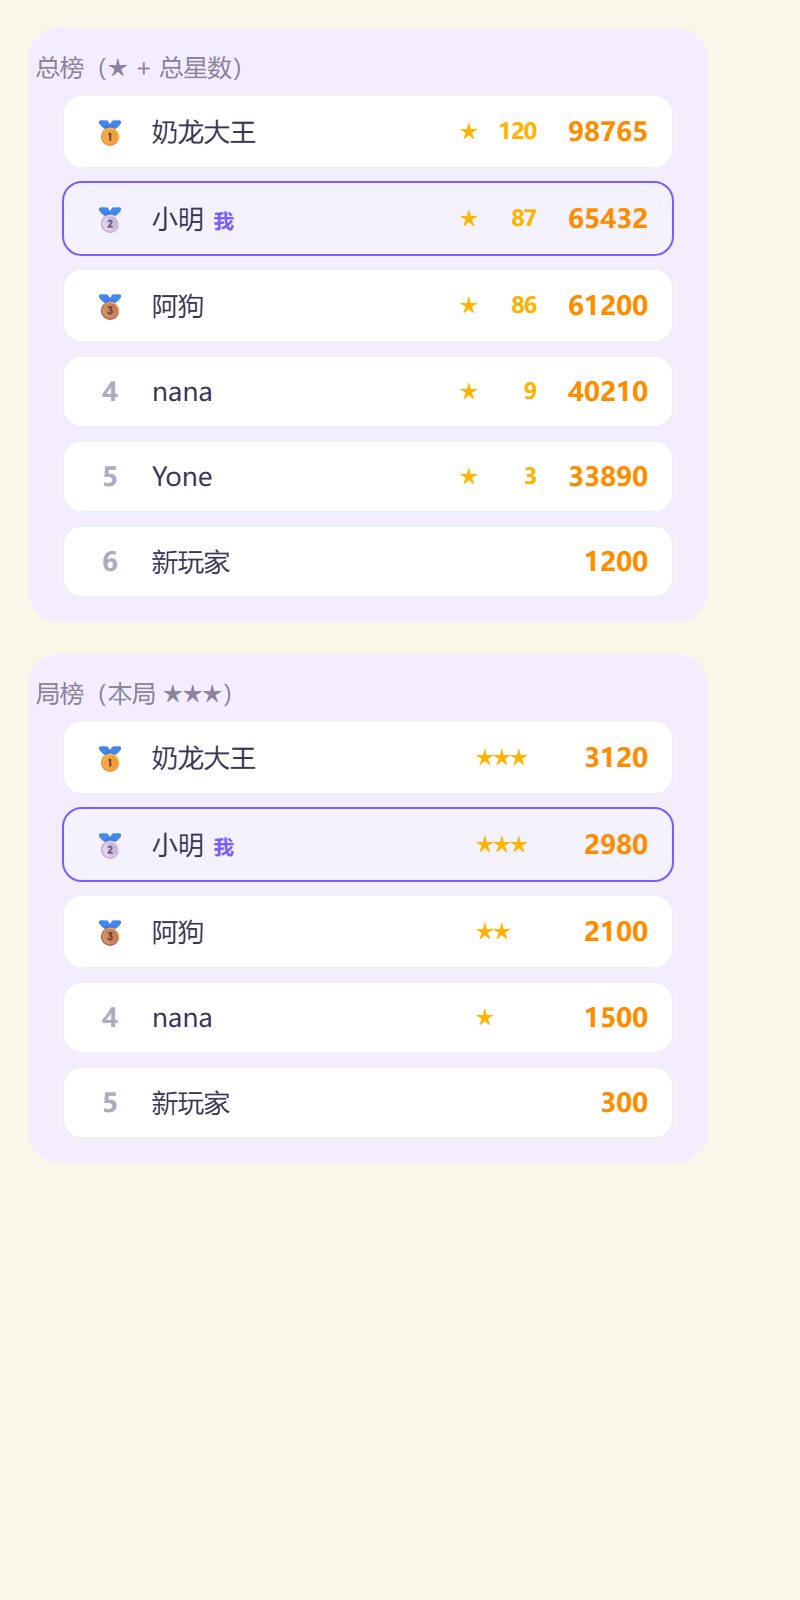
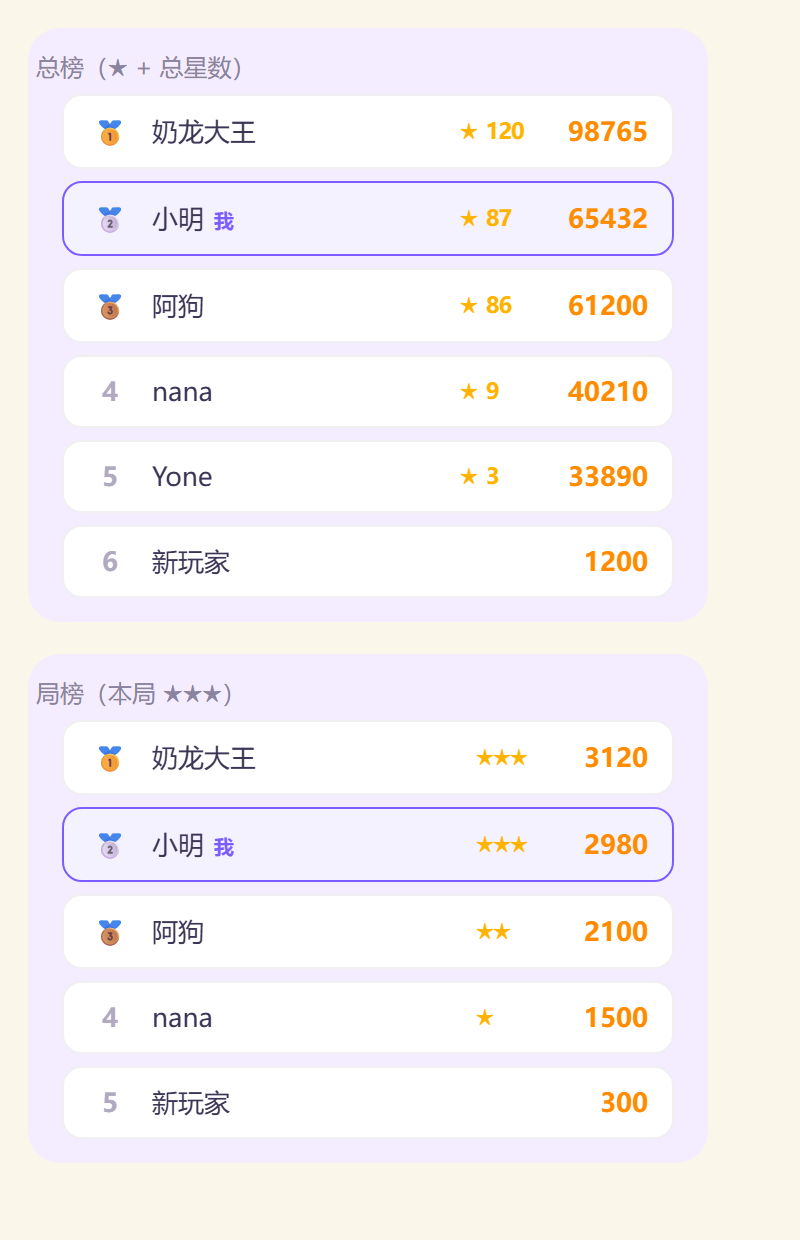
Update files

diff --git a/test-smoke.js b/test-smoke.js
@@ -1889,11 +1889,16 @@ function check(name, ok) {
     /case 'ice': \{/.test(audioSrc) && /_noiseNow\(/.test(audioSrc) &&
     /_noiseBuffer\(\)/.test(audioSrc) && /opts\.final/.test(audioSrc) &&
     /AudioManager\.playSFX\('ice', \{ final:/.test(jsSrc));
-  // 41f-2b. 炸弹音效：礼炮「砰」+ 彩带，必须是亮的（不再是一记闷低音）
-  check('炸弹音效改成明亮的礼炮声（高频噪声 + 上扬音头）',
-    /case 'bomb': \{[\s\S]*?highpass[\s\S]*?彩带/.test(audioSrc) &&
-    /case 'bomb': \{[\s\S]{0,300}_tone\(520/.test(audioSrc) &&
-    !/case 'bomb':[\s\S]{0,120}_tone\(60, 'sine'/.test(audioSrc));
+  // 41f-2b. 炸弹音效：必须是「轰」的低频下坠，不能像碎冰那样高频「咔」
+  check('炸弹音效是低频「轰」（滑音下坠 + 低频尾噪，不含高频碎粒）', (() => {
+    const m = /case 'bomb': \{[\s\S]*?break;\s*\}/.exec(audioSrc);
+    if (!m) return false;
+    const blk = m[0];
+    return /_tone\(150, 'sine', 0\.55, 0\.45, 0, 42\)/.test(blk) &&
+      /exponentialRampToValueAtTime/.test(audioSrc) &&
+      /'lowpass'/.test(blk) && !/'highpass'/.test(blk) &&
+      !/_noise\(0\.03 \+ Math\.random/.test(blk);
+  })());
   // 41f-2c. 炸弹爆炸喷彩带（纸带翻转飘落）
   check('炸弹爆炸喷彩带（纸带翻转飘落）',
     /confetti\(x, y, 26\)/.test(fxSrc) && /kind === 'confetti'/.test(fxSrc) &&
@@ -1924,11 +1929,14 @@ function check(name, ok) {
     htmlSrc0.includes('<h2 class="title small">📖 说明</h2>') &&
     htmlSrc0.includes('🎮 玩法说明') && !htmlSrc0.includes('🎮 玩法规则') &&
     htmlSrc0.includes('说明字号'));
-  // 41f-8. 榜上星星占固定一格：★ 一列对齐、数字右对齐
-  check('榜上星星占固定一格（★ 对齐、数字右对齐）',
-    /\.lb-stars\s*\{[\s\S]*?min-width:\s*42px/.test(cssSrc) &&
-    /\.lb-stars b\s*\{[\s\S]*?text-align:\s*right/.test(cssSrc) &&
-    /lb-star-ico/.test(jsSrc));
+  // 41f-8. 榜上星星占固定一格：★ 一列对齐，数字紧跟 ★（不右推、不留大空档）
+  check('榜上星星占固定一格（★ 一列对齐，数字紧跟 ★）', (() => {
+    const host = /\.lb-stars\s*\{[^}]*\}/.exec(cssSrc);
+    const num = /\.lb-stars b\s*\{[^}]*\}/.exec(cssSrc);
+    return !!host && /min-width:\s*42px/.test(host[0]) &&
+      !!num && /text-align:\s*left/.test(num[0]) && !/min-width/.test(num[0]) &&
+      /lb-star-ico/.test(jsSrc) && cssSrc.includes('lb-star-ico');
+  })());
   // 41g. 剧情过场去掉「跳过剧情」
   check('剧情过场只有「继续前进」，没有「跳过剧情」',
     htmlSrc0.includes('id="btn-story-go"') && !htmlSrc0.includes('btn-story-skip') &&
@@ -1963,6 +1971,28 @@ function check(name, ok) {
     /fill\('evenodd'\)/.test(jsSrc) &&
     !/g\.strokeText\(t, 0, 1\)/.test(jsSrc) &&
     !/const t = isN \? '奶龙' : '🔑'/.test(jsSrc));
+
+  // 41k. 章节奖励：打通一整章 → 邮箱收到「恭喜通过第X章」+200 金币，只发一次
+  check('通过一整章发「恭喜通过第X章」邮件（200 金币，只发一次）', (() => {
+    // 先把第 1 章清空，再一关一关补上，确认「没打通不发、打通才发、不重复发」
+    for (let lv = 1; lv <= 10; lv++) sandbox.Store.recordLevel(lv, 0, 0);
+    sandbox.__nl_test.refreshMenu();
+    const none = sandbox.Mail.list().filter((m) => m.id === 'chapter-clear-1').length;
+    for (let lv = 1; lv <= 9; lv++) sandbox.Store.recordLevel(lv, 1000, 1);
+    sandbox.__nl_test.refreshMenu();
+    const partial = sandbox.Mail.list().filter((m) => m.id === 'chapter-clear-1').length;
+    sandbox.Store.recordLevel(10, 1000, 1);
+    sandbox.__nl_test.refreshMenu();
+    sandbox.__nl_test.refreshMenu();
+    const list = sandbox.Mail.list().filter((m) => m.id === 'chapter-clear-1');
+    const m = list[0] || {};
+    return none === 0 && partial === 0 && list.length === 1 &&
+      m.title === '恭喜通过第1章' && m.coins === 200 && m.hasGift === true &&
+      sandbox.Mail.claim('chapter-clear-1').coins === 200;
+  })());
+  check('章节奖励发到邮箱、由玩家自己领（不会直接塞进钱包）',
+    /chapter-clear-' \+ ch\.id/.test(jsSrc) && /Mail\.sendMail\(\{/.test(jsSrc) &&
+    /coins: CHAPTER_COIN/.test(jsSrc) && /grantChapterMails\(\)/.test(jsSrc));
 
   console.log(failed ? ('\n' + failed + ' 项失败') : '\n全部通过');
   process.exit(failed ? 1 : 0);

diff --git a/js/audio.js b/js/audio.js
@@ -256,19 +256,19 @@
     // 等 resume 成功再补播，避免「刚进来没声音」。
     _pendingTones: [],
     _pendingNoise: [],
-    _tone(freq, type, dur, vol, delay) {
+    _tone(freq, type, dur, vol, delay, to) {
       this.ensureCtx();
       if (!this.ctx) return;
       if (this.ctx.state !== 'running') {
         const now = Date.now();
-        this._pendingTones.push({ args: [freq, type, dur, vol, delay], at: now });
+        this._pendingTones.push({ args: [freq, type, dur, vol, delay, to], at: now });
         if (this._pendingTones.length > 8) this._pendingTones.shift();
         if (this._flushTimer) clearTimeout(this._flushTimer);
         this._flushTimer = setTimeout(() => this._flushTones(), 140);
         this.resumeCtx();
         return;
       }
-      this._toneNow(freq, type, dur, vol, delay);
+      this._toneNow(freq, type, dur, vol, delay, to);
     },
 
     _flushTones() {
@@ -287,7 +287,7 @@
       });
     },
 
-    _toneNow(freq, type, dur, vol, delay) {
+    _toneNow(freq, type, dur, vol, delay, to) {
       if (!this.ctx || this.ctx.state !== 'running') return;
       delay = delay || 0;
       try {
@@ -296,6 +296,10 @@
         const g = this.ctx.createGain();
         osc.type = type;
         osc.frequency.setValueAtTime(freq, t0);
+        // 带滑音：炸弹的「轰」要从高处一路坠下去，纯固定频率只能弹出「嘟」
+        if (to && to > 0 && to !== freq) {
+          osc.frequency.exponentialRampToValueAtTime(to, t0 + dur * 0.85);
+        }
         // 统一响度：所有音效与音乐在同一条响度线上（原来 ×2 偏响）
         const peak = Math.max(0.0001, vol * this.sfxVol * this.SFX_PEAK_SCALE);
         g.gain.setValueAtTime(0, t0);
@@ -400,22 +404,14 @@
           break;
         }
         case 'bomb': {
-          // 炸弹 = 礼花筒「砰」+ 彩带飘出来：要亮、要脆，不能闷成一记低音鼓
-          // ① 爆口：极短的高频噪声（纸炮「啪」），两层叠出厚度
-          this._noise(0.07, 0.30, 2400, 0.6, 0, 'highpass');
-          this._noise(0.04, 0.22, 4200, 0.6, 0.012, 'highpass');
-          // ② 音头上扬的「砰」：几个高音快速叠上去，把整体亮度提起来
-          this._tone(520, 'triangle', 0.10, 0.20);
-          this._tone(780, 'triangle', 0.09, 0.14, 0.03);
-          this._tone(1060, 'sine', 0.09, 0.10, 0.06);
-          // ③ 彩带散开：随机高频颗粒，像纸带擦过空气的沙沙声
-          for (let i = 0; i < 8; i++) {
-            this._noise(0.03 + Math.random() * 0.04, 0.07 + Math.random() * 0.06,
-              1600 + Math.random() * 4200, 0.6, 0.05 + Math.random() * 0.22, 'highpass');
-          }
-          // ④ 只留一丝低频当「体积」，多了就闷
-          this._tone(160, 'sine', 0.09, 0.06);
-          this.vibrate([20, 30, 15]);
+          // 炸弹 = 「轰！」：低频下坠的闷响 + 一记中频冲击 + 低频尾噪。
+          // 高频噪声 / 碎粒是碎冰的招牌（脆、嘶），这里一点都不要，否则听着像冰块碎了。
+          this._tone(150, 'sine', 0.55, 0.45, 0, 42);        // 主「轰」：150Hz 坠到 42Hz
+          this._tone(320, 'triangle', 0.18, 0.20, 0.004, 105); // 爆点的「砰」冲击
+          this._noise(0.36, 0.17, 380, 1, 0.02, 'lowpass');    // 低频尾巴（烟尘感）
+          this._tone(78, 'sine', 0.42, 0.16, 0.02, 50);        // 胸腔那一下
+          this._tone(640, 'sine', 0.07, 0.12, 0, 300);         // 手机小喇叭也能听见的「bwup」
+          this.vibrate([35, 45, 25]);
           break;
         }
         case 'line':

diff --git a/index.html b/index.html
@@ -12,8 +12,8 @@
 <link rel="preload" as="image" type="image/webp" href="./assets/4.webp">
 <link rel="preload" as="image" type="image/webp" href="./assets/5.webp">
 <link rel="preload" as="image" type="image/png" href="./assets/nailong.png">
-<link rel="stylesheet" href="./css/style.css?v=20261107c">
-<link rel="stylesheet" href="./css/themes.css?v=20261107c">
+<link rel="stylesheet" href="./css/style.css?v=20261107d">
+<link rel="stylesheet" href="./css/themes.css?v=20261107d">
 </head>
 <body data-theme="grass" data-view="menu">
 <div class="game-container">
@@ -274,6 +274,7 @@
         <h3>🗺 主线与章节</h3>
         <p>主线按<b>章节</b>推进：通过一关（至少 1 星）解锁下一关。主页「📍 当前进度」<b>从哪关出去就停在哪关</b>，点开始接着打。</p>
         <p>「🗺 章节地图」只显示走到的那一章，打完才出现下一章，打开时当前关卡会<b>平滑滑到列表中间</b>。每章第一关播一小段剧情，可跳过，看过不再播。</p>
+        <p><b>章节奖励</b>：把一整章（该章每一关都拿到星）打通，会收到一封「<b>恭喜通过第X章</b>」，附件 <b>200 金币</b>，去 📮 邮箱自己领；之前已经通过的章节也会补发。</p>
       </section>
 
       <section class="rule-sec">
@@ -961,22 +962,22 @@
   </div>
 </div>
 
-<script src="./js/rng.js?v=20261107c"></script>
-<script src="./js/storage.js?v=20261107c"></script>
-<script src="./js/audio.js?v=20261107c"></script>
-<script src="./js/effects.js?v=20261107c"></script>
-<script src="./js/specials.js?v=20261107c"></script>
-<script src="./js/goals.js?v=20261107c"></script>
-<script src="./js/tasks.js?v=20261107c"></script>
-<script src="./js/mail.js?v=20261107c"></script>
-<script src="./js/input.js?v=20261107c"></script>
-<script src="./js/builtin-music.js?v=20261107c"></script>
-<script src="./js/music.js?v=20261107c"></script>
-<script src="./js/meta.js?v=20261107c"></script>
-<script src="./js/cloud-config.js?v=20261107c"></script>
-<script src="./js/cloud.js?v=20261107c"></script>
-<script src="./js/account.js?v=20261107c"></script>
-<script src="./js/board.js?v=20261107c"></script>
-<script src="./js/game.js?v=20261107c"></script>
+<script src="./js/rng.js?v=20261107d"></script>
+<script src="./js/storage.js?v=20261107d"></script>
+<script src="./js/audio.js?v=20261107d"></script>
+<script src="./js/effects.js?v=20261107d"></script>
+<script src="./js/specials.js?v=20261107d"></script>
+<script src="./js/goals.js?v=20261107d"></script>
+<script src="./js/tasks.js?v=20261107d"></script>
+<script src="./js/mail.js?v=20261107d"></script>
+<script src="./js/input.js?v=20261107d"></script>
+<script src="./js/builtin-music.js?v=20261107d"></script>
+<script src="./js/music.js?v=20261107d"></script>
+<script src="./js/meta.js?v=20261107d"></script>
+<script src="./js/cloud-config.js?v=20261107d"></script>
+<script src="./js/cloud.js?v=20261107d"></script>
+<script src="./js/account.js?v=20261107d"></script>
+<script src="./js/board.js?v=20261107d"></script>
+<script src="./js/game.js?v=20261107d"></script>
 </body>
 </html>

diff --git a/js/game.js b/js/game.js
@@ -2379,6 +2379,7 @@
     if (!S.daily) S.menuLevel = S.level;
     if (!S.daily) Store.markPlayed(S.level);
     if (S.daily) refreshMenu();
+    if (!S.daily) grantChapterMails();   // 这一关刚好是本章最后一关 → 发章节奖励
 
     // 金币产出（§7）；续玩后的第二次结算也照发金币
     const coins = Math.max(10, Math.floor(S.score / 100));
@@ -5211,6 +5212,7 @@
   }
 
   function refreshMenu() {
+    try { grantChapterMails(); } catch (e) {}   // 之前就通过的章节，进主页时补发到邮箱
     const prog = Store.getProgress();
     const maxUnlocked = Store.maxUnlockedLevel(maxMainLevel());
     const max = maxMainLevel();
@@ -5445,6 +5447,45 @@
     let stars = 0;
     for (let lv = ch.from; lv <= ch.to; lv++) stars += Store.getLevelRecord(lv).stars || 0;
     return { stars: stars, total: (ch.to - ch.from + 1) * 3 };
+  }
+
+  // ==================== 章节奖励 ====================
+  // 把一整章（该章每一关都拿到星）打通 → 发一封「恭喜通过第X章」，附件 200 金币。
+  // 邮件 id 固定（chapter-clear-N），重复调用不会重复发；老玩家下次进主页会把
+  // 之前已经通过的章节一次性补齐，直接去邮箱领就行。
+  const CHAPTER_COIN = 200;
+  function chapterCleared(ch) {
+    for (let lv = ch.from; lv <= ch.to; lv++) {
+      const rec = Store.getLevelRecord(lv) || {};
+      if (!(rec.stars > 0)) return false;
+    }
+    return true;
+  }
+  function stampNow() {
+    const d = new Date();
+    const p = (n) => (n < 10 ? '0' : '') + n;
+    return d.getFullYear() + '-' + p(d.getMonth() + 1) + '-' + p(d.getDate()) +
+      ' ' + p(d.getHours()) + ':' + p(d.getMinutes());
+  }
+  function grantChapterMails() {
+    if (typeof Mail === 'undefined' || !Mail.sendMail) return;
+    chapters().forEach((ch) => {
+      if (!chapterCleared(ch)) return;
+      const id = 'chapter-clear-' + ch.id;
+      try {
+        if (Mail.get(id)) return;
+        Mail.sendMail({
+          id: id,
+          at: stampNow(),
+          icon: '🏆',
+          title: '恭喜通过第' + ch.id + '章',
+          from: '系统',
+          body: '你已经把「' + (ch.name || ('第' + ch.id + '章')) + '」的关卡全部打通了！\n\n' +
+            '这 ' + CHAPTER_COIN + ' 金币是章节奖励，点下面的「领取」就进钱包。下一章继续加油～',
+          coins: CHAPTER_COIN
+        });
+      } catch (e) {}
+    });
   }
 
   function renderChapterMap() {

diff --git a/js/mail.js b/js/mail.js
@@ -33,10 +33,8 @@
       at: '2026-11-05 19:00',
       icon: '📖',
       title: '说明页更新：功能介绍和玩法说明分开了',
-      category: '系统',
-      body: '左上角的 📖 说明现在先让你选看哪一份：\n\n· 🧩 功能介绍：章节、更多玩法、金币道具、每日挑战、福利、成就与配色、排行榜、音乐、账号\n· 🎮 玩法说明：基本玩法、特殊块、组合技、连击、关卡目标、障碍与货物、星级、分数与纪录、提示与续命\n\n只想查一个机制的时候，不用再翻完一整页了。',
       from: '系统',
-      body: '左上角的 📖 规则现在先让你选看哪一份：\n\n· 🧩 功能介绍：章节、更多玩法、金币道具、每日挑战、福利、成就与配色、排行榜、音乐、账号\n· 🎮 玩法规则：基本玩法、特殊块、组合技、连击、关卡目标、障碍与货物、星级、分数与纪录、提示与续命\n\n只想查一个机制的时候，不用再翻完一整页了。',
+      body: '左上角的 📖 说明现在先让你选看哪一份：\n\n· 🧩 功能介绍：章节、更多玩法、金币道具、每日挑战、福利、成就与配色、排行榜、音乐、账号\n· 🎮 玩法说明：基本玩法、特殊块、组合技、连击、关卡目标、障碍与货物、星级、分数与纪录、提示与续命\n\n只想查一个机制的时候，不用再翻完一整页了。',
       coins: 0
     }
   ];

diff --git a/README.md b/README.md
@@ -16,10 +16,11 @@
 - **货物只往下走（允许重合）**：被消方块上的钥匙 / 奶龙一律掉到**正下方那一格**，下面已经有货也照掉——`cell.cargo` 这时会变成数组（`cargoList()` / `addCargo()` 统一读写），渲染时后面那件缩小错开贴左上角（`drawCargoStack`），送到底行时整格一起送达。不再有「往上找空位 / 瞬移到别的列」的怪相，也绝不凭空消失。
 - **洗牌只洗方块**：`reshuffle()` 先把货物（钥匙 / 奶龙）从方块上摘下来、记下坐标，只把方块丢进池子重排，洗完再按原坐标贴回去 —— 货物**位置一丝不动**，只有它底下压着的方块会换。冰块 / 锁链本来就在独立数组里，同样不动；兜底的重排图案分支也只改 `type`。
 - **目标口径（冰块 / 钥匙 / 奶龙）**：目标数永远 = 「已完成 + 场上还剩」，`syncGoalFromBoard()` 在开局、读档、每次结算后各校准一次，所以数字和棋盘上数得出来的一致。冰块按**块**算（厚冰要砸透才算清掉一块，不再按层数把目标虚高成两倍）。货物被顶下时先在原列往下找位、再往上、然后全盘找空位，实在没有才贴回原位 —— 绝不凭空消失（丢一只奶龙 = 那关永久打不过）。
-- **特殊块**：横/竖 4 连出线消，L/T 出炸弹，5 连出彩虹；两个特殊块相邻交换触发组合技。引爆有专属特效（`js/effects.js`）：炸弹火球冲击波 + 全屏闪光 + 震屏 + **一圈彩带**（`FX.confetti()`，六色纸带边翻转边左右摆着飘落），线消蓝光束横 / 竖扫过，彩虹五色波纹 + 白闪。炸弹音效也改成**礼炮声**（`playSFX('bomb')`：高频噪声「啪」+ 三个上扬音头的「砰」+ 随机高频颗粒当彩带沙沙声，只留一丝低频当体积——不再是一记闷低音）。棋盘方块底色用各自图案色加深 25%（`tileBaseColor`），不再是黑色；彩虹特殊块是图案方块叠 🌈 emoji（drawSpecialOverlay）；`assets/rainbow.jpg` 彩虹图用在棋盘配色列表「彩色」行的图标上。
+- **特殊块**：横/竖 4 连出线消，L/T 出炸弹，5 连出彩虹；两个特殊块相邻交换触发组合技。引爆有专属特效（`js/effects.js`）：炸弹火球冲击波 + 全屏闪光 + 震屏 + **一圈彩带**（`FX.confetti()`，六色纸带边翻转边左右摆着飘落），线消蓝光束横 / 竖扫过，彩虹五色波纹 + 白闪。炸弹音效是**低频「轰」**（`playSFX('bomb')`：150→42Hz 滑音下坠的主轰 + 320→105Hz 爆点冲击 + 380Hz 低通尾噪 + 一记 640Hz 小喇叭也听得见的起音；**完全不用高频噪声 / 碎粒**，那是碎冰的招牌，混进来就会听着像冰块碎了）。棋盘方块底色用各自图案色加深 25%（`tileBaseColor`），不再是黑色；彩虹特殊块是图案方块叠 🌈 emoji（drawSpecialOverlay）；`assets/rainbow.jpg` 彩虹图用在棋盘配色列表「彩色」行的图标上。
 - **其他**：连击倍率（**连击窗口 1600ms** `COMBO_WINDOW`，停手一拍连击就断）、4 连击狂热（6 秒双倍；表现是**棋盘正下方**一枚静态倒计时小标「🔥 双倍 Ns」（`.frenzy-slot` 固定占位，出现 / 消失都不挤动棋盘），逐秒递减，棋盘不做呼吸闪动 / 亮度变化，避免看着晃眼）、每局 3 次提示（照着高亮的交换走那一步、洗牌或撤回后 `clearHint()` 立刻收掉高亮框）、失败可花金币续命、可撤回、切后台自动暂停、1~3 星。中央连击弹窗只停留 620ms（`COMBO_DECAY`），淡出 0.16s，不长时间挡棋盘。全局提示条（toast）停留 3 秒。后台「全服玩家 / 省份」搜索框**区分大小写**（输 `yone` 不再匹配 `YONE`）。步数 / 时间用完**绝不自动消耗背包道具**（`autoUseLeftoverItems` 已整体删除），只保留花金币续命的机会。过关时还有剩余步数 / 剩余时间，结算面板会多一个**绿色**的「还有剩余步数／秒数点击继续游戏」按钮（限时关点完 `startTimer()` 继续跑表，时间到 = 第二次结算 `levelWin(true)`，不是失败）；失败标题限时关写「时间到了」，步数关写「步数耗尽」。主页「📍 当前进度」跟随最后进入的关卡（`startLevel` 写入 `settings.menuLevel`），从哪关出去主页就停在哪关。关卡记录和章节地图打开时都会把当前关卡平滑滑到列表中间；主页不可上下滚动；所有滑动区域不显示滚动条灰线。
+- **章节奖励**：一章（`levels.json` 的 `chapters`，每章 10 关）全部拿到星 → 自动往邮箱发一封「恭喜通过第X章」，附件 **200 金币**，玩家自己点「领取」（`Mail.sendMail`，id 固定 `chapter-clear-N` 不会重复发）。入口在 `grantChapterMails()`：过关结算（`levelWin`）和打开主页（`refreshMenu`）各调一次，所以老玩家之前通过的章节会一次性补齐。
 - **内容**：主线 40 关 4 章；更多玩法（无尽 / 60 秒 / 节奏）；每日挑战（日期做种子）；成就 27 枚五阶、棋盘配色 8 款（第 8 款「彩色」：光晕为柔彩虹渐变，列表里所有配色图标都是 20px 铺满小方块，彩色用 assets/rainbow.jpg 彩虹图，其余用对应纯色）、签到入口（日期条签到 + 转盘）、排行榜（总榜 / 省榜 / 局榜）。章节剧情过场只有「继续前进」一个键（原来的「跳过剧情」已删）。帮助入口叫 **📖 说明**：先选「🧩 功能介绍」或「🎮 玩法说明」；**改名属于功能**，写在功能介绍 → 账号与昵称里（主页左上角 🏠 主页键 →「✏ 改名」）。
-- **总分口径**：只累加**已通关（星数 > 0）**关卡的最高分；没过关那一局的分数不进总分，也不参与「最高单关」判定，通关拿到星以后才加。排行榜（`myBestEntry`）、结算画面（`showCompletePanel`）、后台统计（`totalBestScore`）统一走这个口径。榜行**分数左边带星星**（局榜 = 本局星「★★★」，总榜 / 省榜 = 总星数「★ 87」）：星星占**固定一格**（`.lb-stars` `min-width:42px`，★ 图标贴左、数字右对齐 `font-variant-numeric: tabular-nums`），不管几颗星几位数，一列看下去都对齐；0 星的行也留空位，分数不挪窝。
+- **总分口径**：只累加**已通关（星数 > 0）**关卡的最高分；没过关那一局的分数不进总分，也不参与「最高单关」判定，通关拿到星以后才加。排行榜（`myBestEntry`）、结算画面（`showCompletePanel`）、后台统计（`totalBestScore`）统一走这个口径。榜行**分数左边带星星**（局榜 = 本局星「★★★」，总榜 / 省榜 = 总星数「★ 87」）：星星占**固定一格**（`.lb-stars` `min-width:42px`），★ 图标贴左、**数字紧跟 ★ 后面**（`text-align:left` + `tabular-nums`），星星和数字紧挨着、★ 一列看下去对齐；0 星的行也留空位，分数不挪窝。
 
 ## 账号与邮箱
 
